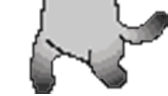
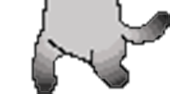
Trying to remove visual artifact.

diff --git a/iOS/longcat/qml/Core/Game/Cat.qml b/iOS/longcat/qml/Core/Game/Cat.qml
@@ -71,7 +71,7 @@ Column {
         running:     cat.visible && !cat.paused
         source:      "qrc:/resources/images/game/cat/top.png"
         frameCount:  4
-        frameWidth:  168
+        frameWidth:  172
         frameHeight: 120
         frameX:      0
         frameRate:   4
@@ -118,7 +118,7 @@ Column {
         running:     cat.visible && !cat.paused
         source:      "qrc:/resources/images/game/cat/bottom.png"
         frameCount:  8
-        frameWidth:  168
+        frameWidth:  172
         frameHeight: 96
         frameX:      0
         frameRate:   8
